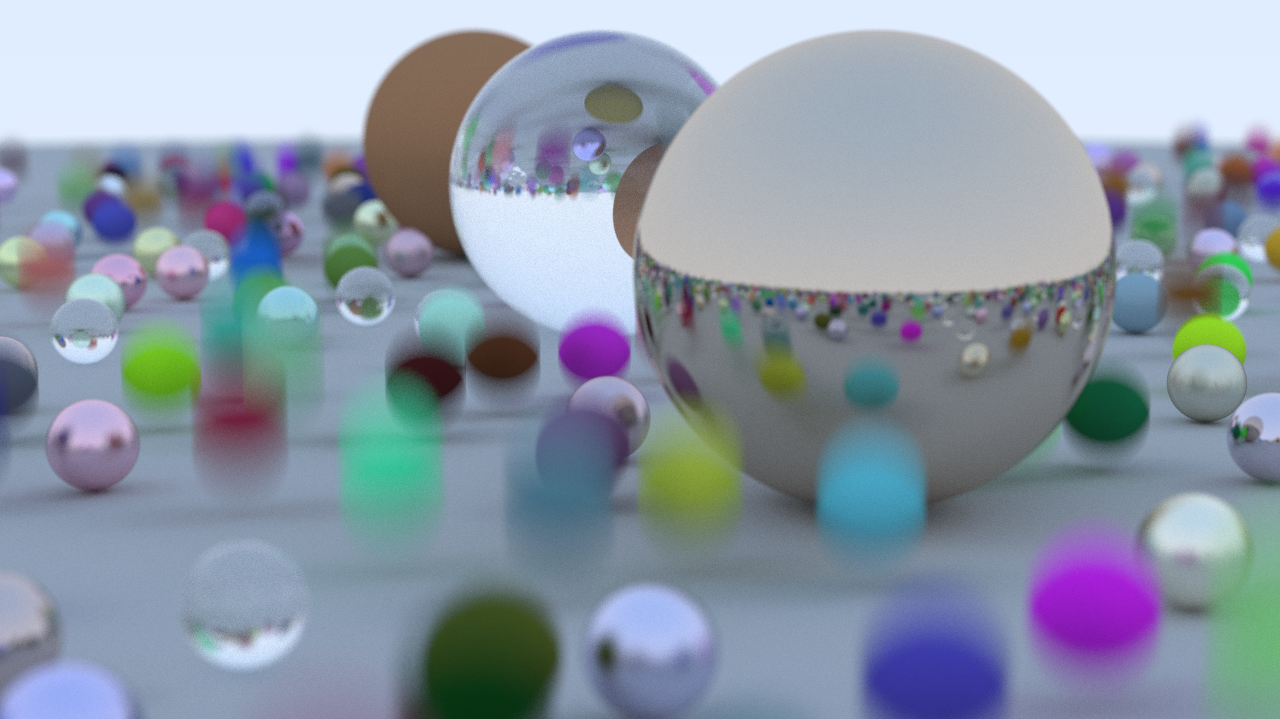
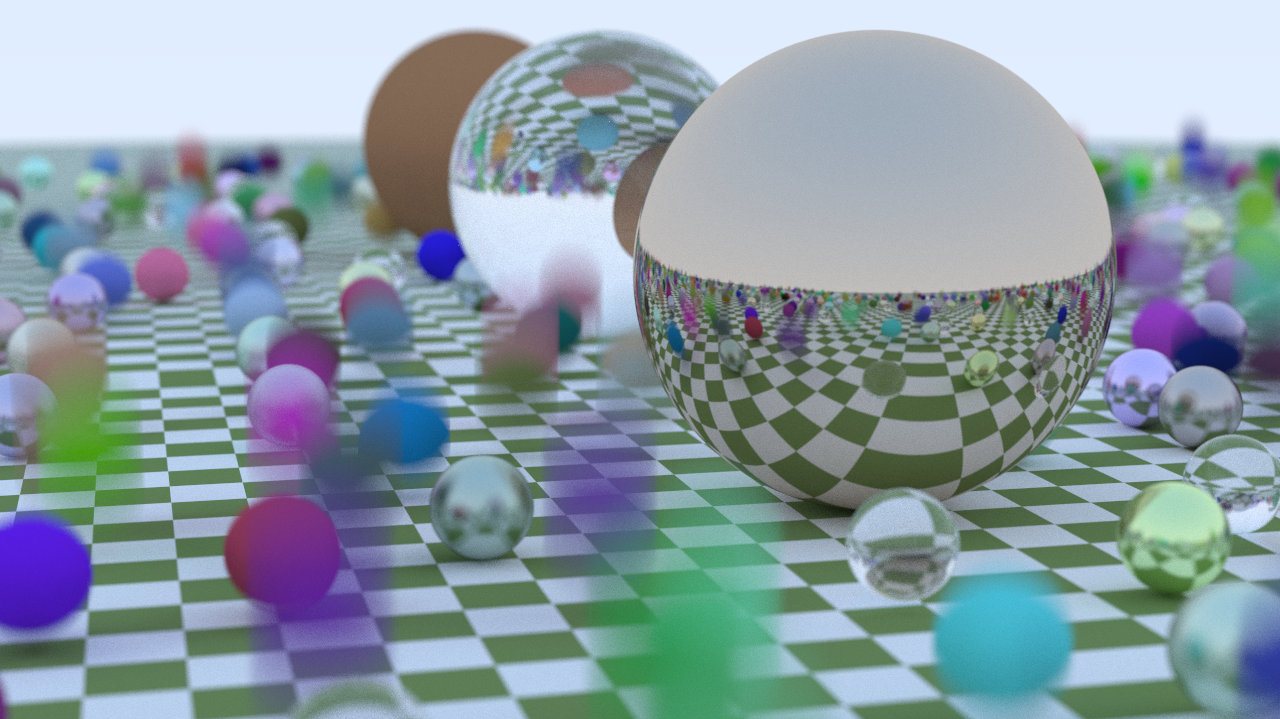
add chessboard texture

diff --git a/texture.h b/texture.h
@@ -1,0 +1,56 @@
+#pragma once
+#ifndef TEXTURE_H
+#define TEXTURE_H
+
+#include "global.h"
+#include "mathematics.h"
+
+class Texture {
+public:
+    // Destructor
+    virtual ~Texture() = default;
+
+    // Methods
+    virtual Colour Value(double u, double v, const Point3& p) const = 0;
+};
+
+class SolidColour : public Texture {
+public:
+    // Constructor
+    SolidColour(double r, double g, double b) : SolidColour(Colour(r, g, b)) {}
+    SolidColour(const Colour& _albedo) : albedo(_albedo) {}
+
+    // Methods
+    Colour Value(double u, double v, const Point3& p) const override { return albedo; }
+
+private:
+    // Members
+    Colour albedo;
+};
+
+class CheckerTexture : public Texture {
+public:
+    // Constructor
+    CheckerTexture(double _scale, shared_ptr<Texture> _even_texture, shared_ptr<Texture> _odd_texture)
+        : scale_inv(1.0/_scale), even_texture(_even_texture), odd_texture(_odd_texture) {}
+    CheckerTexture(double _scale, const Colour& _even_colour, const Colour& _odd_colour)
+        : CheckerTexture(_scale, make_shared<SolidColour>(_even_colour), make_shared<SolidColour>(_odd_colour)) {}
+
+    // Methods
+    Colour Value(double u, double v, const Point3& p) const override {
+        auto x_int = static_cast<int>(p.x * scale_inv);
+        auto y_int = static_cast<int>(p.y * scale_inv);
+        auto z_int = static_cast<int>(p.z * scale_inv);
+        bool is_even = (x_int + y_int + z_int) % 2 == 0;
+        return is_even ? even_texture->Value(u, v, p) : odd_texture->Value(u, v, p);
+    }
+
+private:
+    // Members
+    double scale_inv;
+    shared_ptr<Texture> even_texture;
+    shared_ptr<Texture> odd_texture;
+};
+
+
+#endif // TEXTURE_H

diff --git a/main.cpp b/main.cpp
@@ -1,11 +1,12 @@
 #include "global.h"
-#include "maths.h"
+#include "mathematics.h"
 #include "shapes.h"
 #include "ray.h"
 #include "scene.h"
 #include "bvhtree.h"
 #include "camera.h"
 #include "material.h"
+#include "texture.h"
 
 Point3 RandomCentre(double x, double y, double z)
 { return Point3(x,y,z) + Point3(0.9*RandomFloat(),0,0.9*RandomFloat()); }
@@ -13,8 +14,8 @@ Point3 RandomCentre(double x, double y, double z)
 int main() {
     Scene scene;
     
-    auto MATground = make_shared<Lambertian>(Colour(0.5, 0.5, 0.5));
-    scene.AddObject(make_shared<Sphere>(Point3(0, -1000, 0), 1000, MATground));
+    auto checker_texture = make_shared<CheckerTexture>(0.32, Colour(0.2, 0.3, 0.1), Colour(0.9, 0.9, 0.9));
+    scene.AddObject(make_shared<Sphere>(Point3(0, -1000, 0), 1000, make_shared<Lambertian>(checker_texture)));
 
     auto radius_small = 0.2;
     auto radius_large = 1.0;
@@ -85,7 +86,7 @@ int main() {
     camera.view_pos      = Point3(12,2,3);
     camera.view_des      = Point3(0,0,0);
     camera.defocus_angle = 0.60;
-    camera.focal_dist    = 10.5;
+    camera.focal_dist    = 9.0;
 
     auto start = std::chrono::system_clock::now();
     camera.RenderScene(scene);

diff --git a/material.h b/material.h
@@ -4,8 +4,9 @@
 
 #include "global.h"
 #include "ray.h"
-#include "maths.h"
+#include "mathematics.h"
 #include "shapes.h"
+#include "texture.h"
 
 class Material {
 public:
@@ -21,7 +22,8 @@ public:
 class Lambertian : public Material {
 public:
     // Constructor
-    Lambertian(const Colour& _albedo) : albedo(_albedo) {}
+    Lambertian(const Colour& _albedo) : texture(make_shared<SolidColour>(_albedo)) {}
+    Lambertian(shared_ptr<Texture> _texture) : texture(_texture) {}
 
     // Methods
     bool Scatter(const Ray& ray_in, const Intersection& isect, Colour& attenuation, Ray& scattered)
@@ -29,12 +31,12 @@ public:
         auto random_dir = isect.normal + RandomVec3Unit();
         Unitize(random_dir);
         scattered = Ray(isect.coords, random_dir, ray_in.time);
-        attenuation = albedo;
+        attenuation = texture->Value(isect.u, isect.v, isect.coords);
         return true;
     }
 
     // Members
-    Colour albedo;
+    shared_ptr<Texture> texture;
 };
 
 class Metal : public Material {

diff --git a/shapes.h b/shapes.h
@@ -5,7 +5,7 @@
 #include "global.h"
 #include "bounds.h"
 #include "ray.h"
-#include "maths.h"
+#include "mathematics.h"
 
 class Material;
 
@@ -14,6 +14,7 @@ struct Intersection {
     Vector3 normal;
     shared_ptr<Material> material;
     double time;
+    double u, v;
     bool outside; // True if ray is outside the object
 
     void SetOutward(const Ray& ray, const Vector3& outward_normal) {

diff --git a/bvhtree.h b/bvhtree.h
@@ -5,7 +5,7 @@
 #include <algorithm>
 
 #include "global.h"
-#include "maths.h"
+#include "mathematics.h"
 #include "shapes.h"
 #include "scene.h"
 #include "bounds.h"

diff --git a/camera.h b/camera.h
@@ -6,7 +6,7 @@
 
 #include "global.h"
 #include "shapes.h"
-#include "maths.h"
+#include "mathematics.h"
 #include "material.h"
 
 class Camera {

diff --git a/bounds.h b/bounds.h
@@ -4,7 +4,7 @@
 
 #include "global.h"
 #include "ray.h"
-#include "maths.h"
+#include "mathematics.h"
 
 class Bounds3 {
 public:

diff --git a/ray.h b/ray.h
@@ -2,7 +2,7 @@
 #ifndef RAY_H
 #define RAY_H
 
-#include "maths.h"
+#include "mathematics.h"
 #include "global.h"
 
 class Ray {
